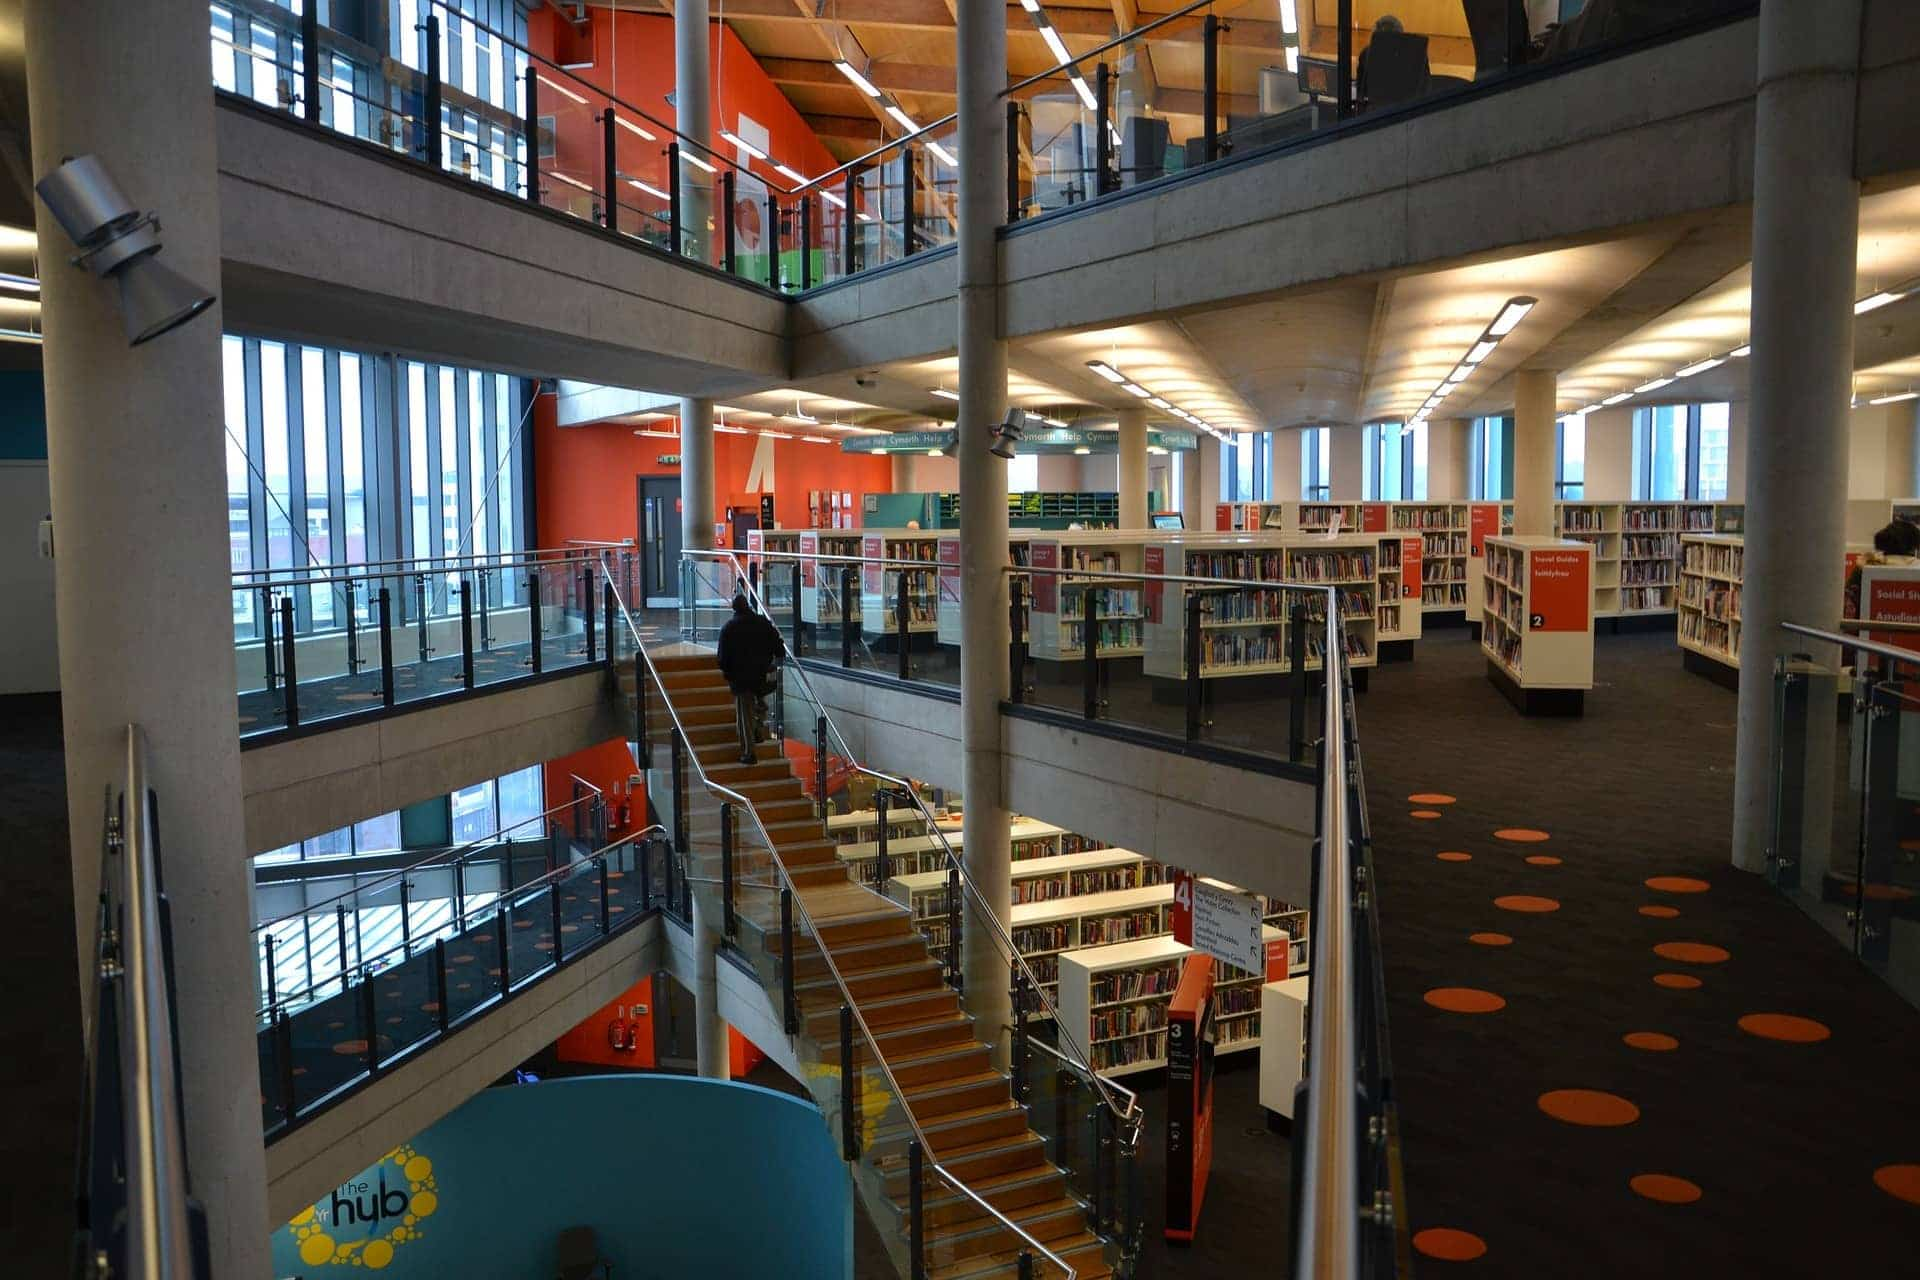
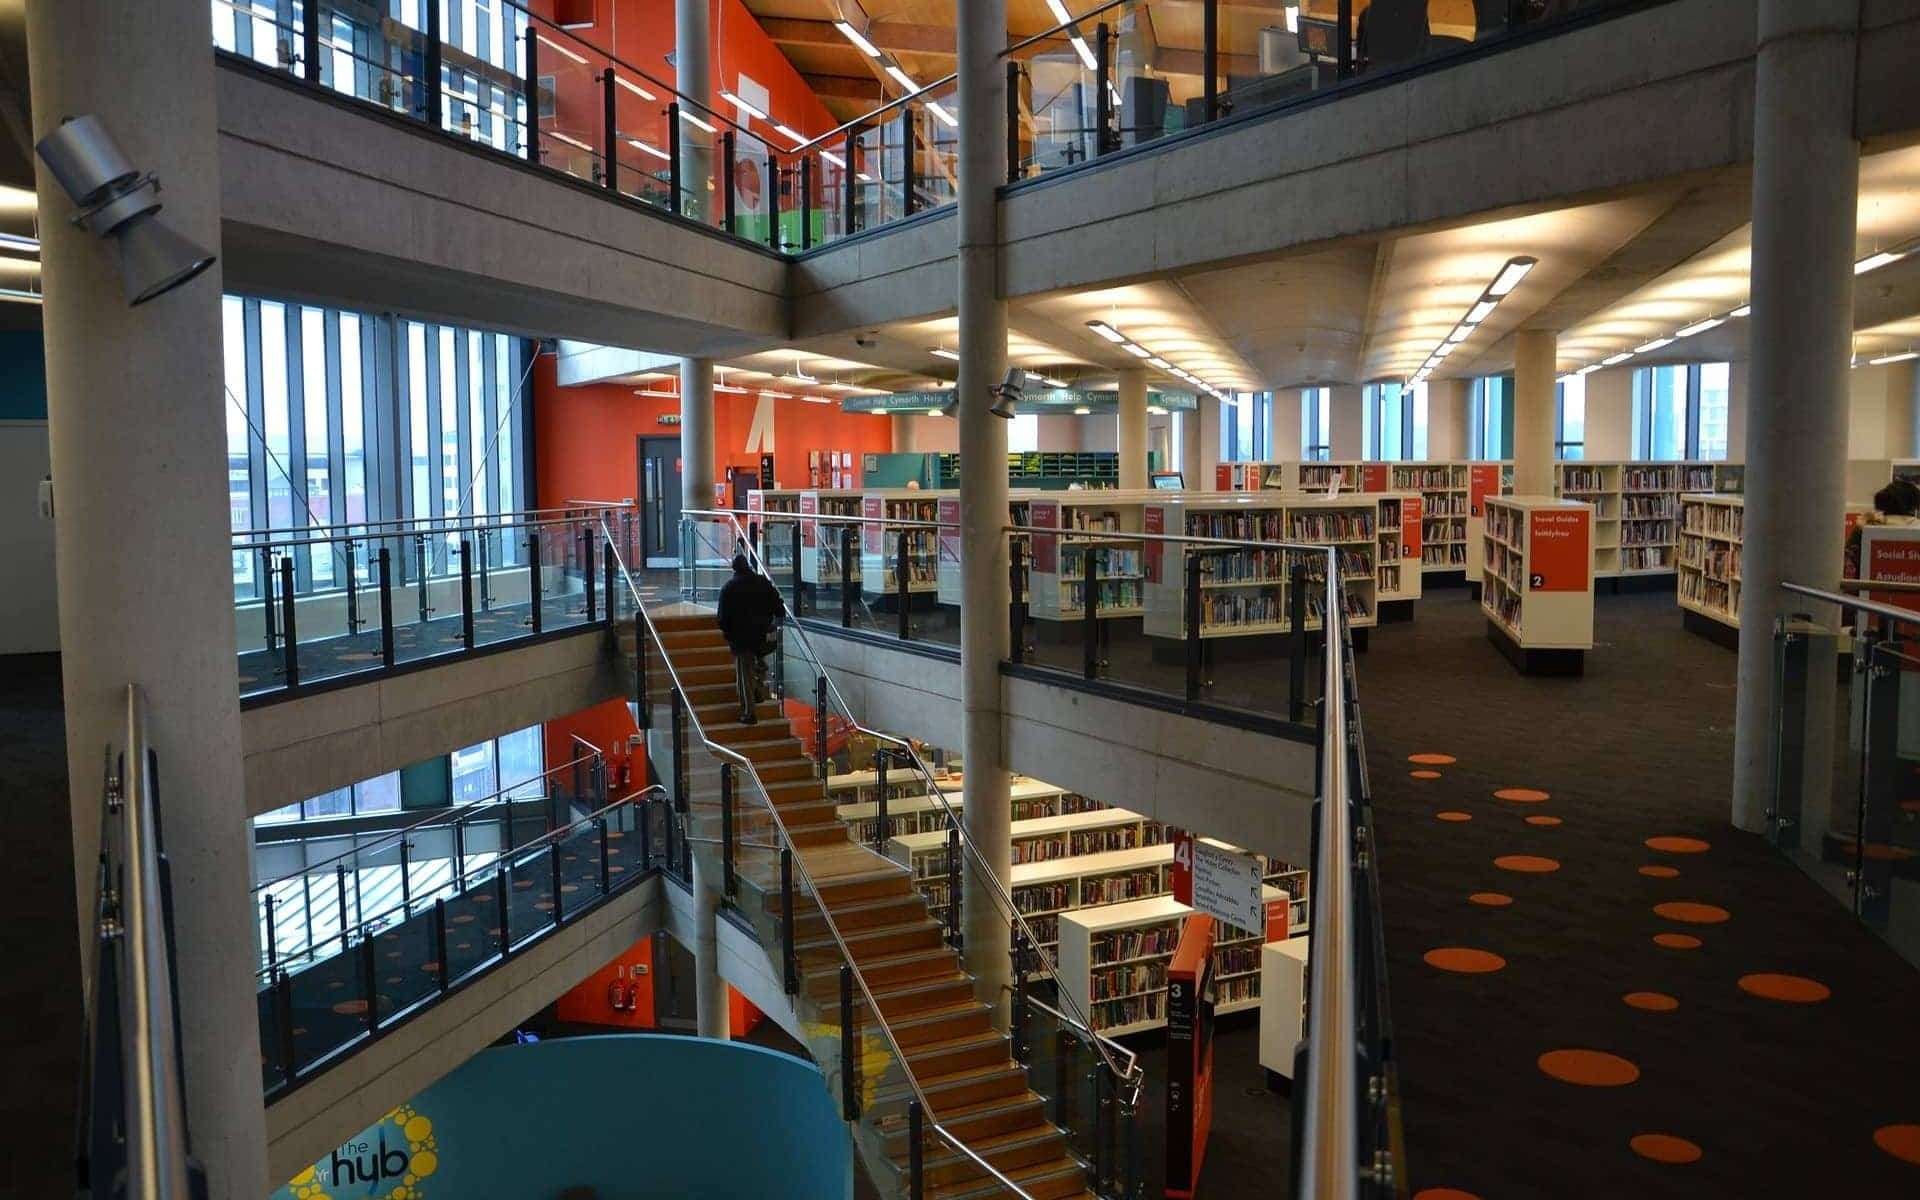
updated images, coded/styled exh + evol
updated images so they are the same size. Finished with exhibition and evolution, but needs tweaking to be perf

diff --git a/exhibitions.html b/exhibitions.html
@@ -29,7 +29,38 @@
           </ul>
         </nav>
     </header>
-    <main> nemo sed veniam, vt consectetur adit autem officia  doloribus="loaliquid</main>
+    <main>
+        <h1>Our current exhibitions</h1>
+            <section class="exhibition-card">
+                <img src="images/mammoth-1257288_1920.jpg" alt="Photo of a mammoth skeleton">
+                <h2>Evolution</h2>
+                <a class="cta" href="exhibitions/evolution.html">Go to exhibition</a>
+        </section>
+        <section class="exhibition-card">
+            <img src="images/celso-405219.jpg" alt="Image of the moon in different phases">
+            <h2>Cosmology</h2>
+            <a class="cta" href="exhibitions/cosmology.html">Go to exhibition</a>
+        </section>  
+        <section class="exhibition-card">
+            <img src="images/jesse-orrico-60373.jpg" alt="Picture of an anatomic model of a human head">
+            <h2>Biology and medicine</h2>
+            <a class="cta" href="exhibitions/biology.html">Go to exhibition</a>
+        </section>
+        <section class="exhibition-card">
+            <img src="images/billetto-editorial-334686.jpg" alt="Photograph of a person painting while wearing VR headset">
+            <h2>Robotics and AI</h2>
+            <a class="cta" href="exhibitions/robotics.html">Go to exhibition</a>
+        </section>
+        <section class="exhibition-card">
+            <img src="images/view-polar-bear-frozen-landscape-spitsbergen-svalbard.jpg" alt="Picture of a polar bear in frozen landscape">
+            <h2>Ecology</h2>
+            <a class="cta" href="exhibitions/ecology.html">Go to exhibition</a>
+        </section>
+        <section class="navigation-pages">
+            <a href="/exhibitions.html" class="navigation-arrows"><i class="fa-solid fa-arrow-up"></i>Back to top</a>   
+            <a href="/index.html" class="navigation-arrows"><i class="fa-solid fa-arrow-left"></i>Back to home</a>
+        </section>    
+    </main>
     <footer>
         <div class="footer-top">
             <a href="index.html" class="brand-name">Community <br>Science Museum</a>

diff --git a/exhibitions/evolution.html b/exhibitions/evolution.html
@@ -29,7 +29,22 @@
           </ul>
         </nav>
     </header>
-    <main> nemo sed veniam, vt consectetur adit autem officia  doloribus="loaliquid</main>
+    <main>
+        <section class="exhibition-card">
+            <h1>Evolution</h1>
+            <p>For centuries, philosophers and scientists have wrestled with the question of our origins. </p>
+            <p>Where do we come from and how did we get here? Since Darwin proposed his theory of evolution we have had a framework for exploring and understanding our place in this world.</p>
+            <img src="../images/mammoth-1257288_1920.jpg" alt="Image of a mammoth skeleton">
+            <p>Discover the origins of life on this planet and how the species we know today have evolved our time. </p>
+            <p>You can also take some time to meet a few of the creatures who didn’t survive, including our Woolly Mammoth, the Dodos, and a number of dinosaurs too.</p> 
+            <img src="../images/skeleton-414543_1920.jpg" alt="Image of human skeletons from different eras of evolution">
+            <a class="cta" href="../contact.html">Book your ticket here</a>
+        </section>
+        <section class="navigation-pages">
+            <a href="evolution.html" class="navigation-arrows"><i class="fa-solid fa-arrow-up"></i>Back to top</a>   
+            <a href="../index.html" class="navigation-arrows"><i class="fa-solid fa-arrow-left"></i>Back to home</a>
+        </section> 
+    </main>
     <footer>
         <div class="footer-top">
             <a href="../index.html" class="brand-name">Community <br>Science Museum</a>

diff --git a/index.html b/index.html
@@ -45,7 +45,7 @@
             <div class="color-card card-cosmology">
             <img src="images/celso-405219.jpg" alt="Image of the moon in different phases"><a href="exhibitions/cosmology.html" class="cta-small">Cosmology</a></div>
             <div class="color-card card-robotics">
-            <img src="images/billetto-editorial-334686.jpg" alt="Photograph of a person painting while wearing AR headset"><a href="exhibitions/robotics.html" class="cta-small">Robotics and AI</a></div>
+            <img src="images/billetto-editorial-334686.jpg" alt="Photograph of a person painting while wearing VR headset"><a href="exhibitions/robotics.html" class="cta-small">Robotics and AI</a></div>
             <div class="color-card card-evolution">
             <img src="images/mammoth-1257288_1920.jpg" alt="Picture of a mammoth skeleton"><a href="exhibitions/evolution.html" class="cta-small">Evolution</a></div>
             <div class="color-card card-ecology">

diff --git a/css/styles.css b/css/styles.css
@@ -217,6 +217,19 @@ img {
     border: solid 1px #000;
 }
 
+.navigation-arrows {
+    color: var(--dark-text-color);
+    padding: 10px;
+    font-family: var(--cta-font);
+}
+.navigation-pages {
+    display: flex;
+    flex-direction: row;
+    justify-content: space-between;
+}
+
+
+
 .cards {
     display: grid;
     grid-template-columns: 1fr 1fr;
@@ -274,4 +287,14 @@ img {
 table {
     font-family: var(--h5-font);
     text-align: center;
+}
+
+/**exhibitions**/
+
+.exhibition-card {
+    display: flex;
+    flex-direction: column;
+    background-color: var(--card-background);
+    border: 30px solid #DFE8FD;
+    margin: 20px;
 }

diff --git a/css/variables.css b/css/variables.css
@@ -4,6 +4,7 @@
     --light-text-color: #ffffff;
     --dark-text-color: #000000; 
     --cta-background-color: #fff;
+    --card-background: #DFE8FD;
     --menu-font: "Unbounded-Bold";
     --brand-font: "ZenDots-Regular";
     --h1-font:"Unbounded-Regular";
